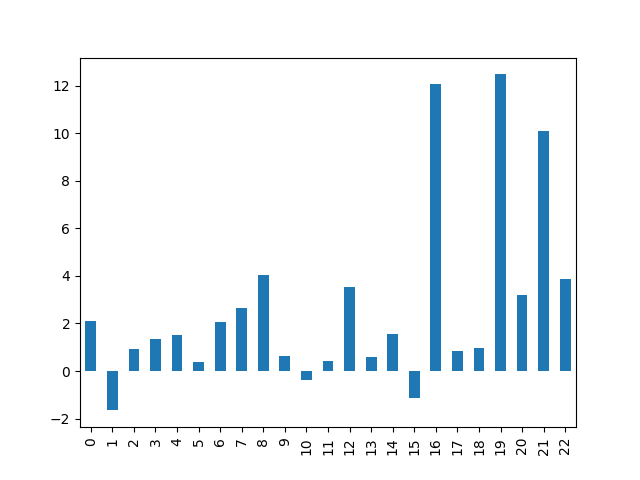
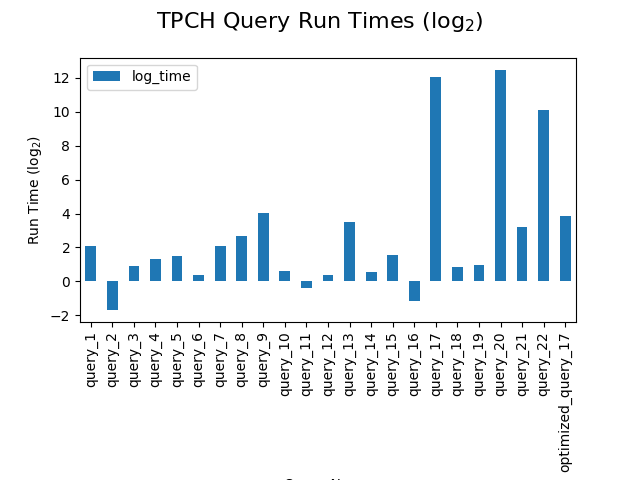
add requirements.txt, cleanup unused files, fix graph

diff --git a/build_graph.py b/build_graph.py
@@ -1,10 +1,19 @@
 import pandas as pd
 import numpy as np
+import matplotlib.pyplot as plt
+
 
 df = pd.read_csv('query_times_finals.csv')
 
 df['log_time'] = np.log2(df['time'])
+ndf = df.drop(['records_returned', 'time'], axis=1)
 
-bars = df['log_time'].plot.bar(x='name')
+bars = ndf.plot.bar(x='name')
 fig = bars.get_figure()
+params = {'mathtext.default': 'regular' }
+plt.rcParams.update(params)
+fig.suptitle("TPCH Query Run Times ($log_{2}$)", fontsize=16)
+plt.ylabel('Run Time ($log_{2}$)')
+plt.xlabel('Query Name')
+plt.gcf().subplots_adjust(bottom=0.33)
 fig.savefig("log_plot.png")
